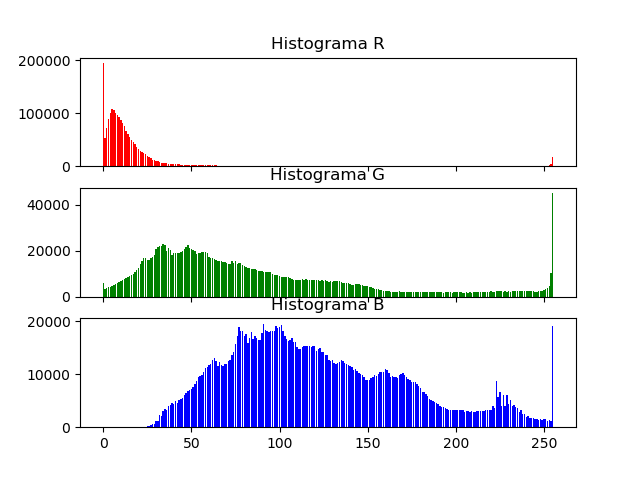
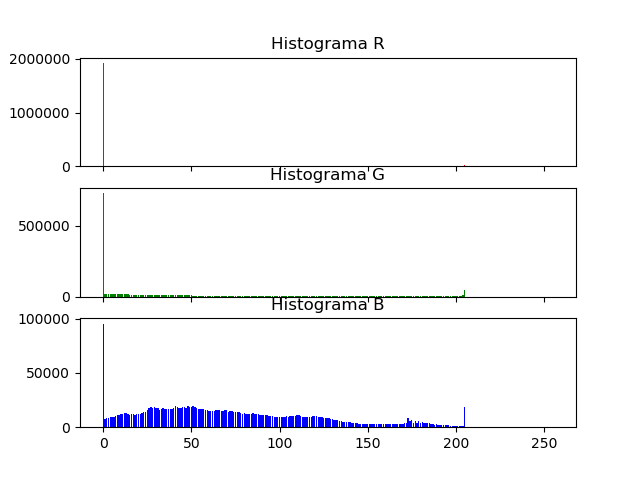
Adds wrappers to filters

diff --git a/src/main.py b/src/main.py
@@ -2,7 +2,7 @@ import sys
 
 from image_processing.filters import clarear, escurecer
 from image_processing.data import histogram
-from util import img2Temp, imgClone
+from util import img2Temp, imgClone, saveImage, readImage
 
 from PySide2 import *
 from PySide2.QtWidgets import *
@@ -61,6 +61,7 @@ class MainWindow(QMainWindow):
         self.escalarClarearText = QLabel("Escalar:")
         self.escalarClarear = QLineEdit()
         self.btnClarear = QPushButton('Clarear')
+        self.btnClarear.clicked.connect(self.clarearWrapper)
         vboxClarear = QVBoxLayout()
         vboxClarear.addWidget(self.escalarClarearText)
         vboxClarear.addWidget(self.escalarClarear)
@@ -72,6 +73,7 @@ class MainWindow(QMainWindow):
         self.escalarEscurecerText = QLabel("Escalar:")
         self.escalarEscurecer = QLineEdit()
         self.btnEscurecer = QPushButton('Escurecer')
+        self.btnEscurecer.clicked.connect(self.escurecerWrapper)
         vboxEscurecer = QVBoxLayout()
         vboxEscurecer.addWidget(self.escalarEscurecerText)
         vboxEscurecer.addWidget(self.escalarEscurecer)
@@ -95,6 +97,18 @@ class MainWindow(QMainWindow):
         widget.setLayout(layout)  # seta o layout a ser usado
         self.setCentralWidget(widget)
 
+    def clarearWrapper(self):
+        escalar = self.escalarClarear.text()
+        img = readImage(FILENAMES['modified'])
+        modified = clarear(img, int(escalar))
+        self.updateModifiedImage(modified)
+
+    def escurecerWrapper(self):
+        escalar = self.escalarEscurecer.text()
+        img = readImage(FILENAMES['modified'])
+        modified = escurecer(img, int(escalar))
+        self.updateModifiedImage(modified)
+
     def openImage(self):
         dialog = QFileDialog()
         dialog.setNameFilter('Images (*.png *.xpm *.jpg)')
@@ -107,16 +121,16 @@ class MainWindow(QMainWindow):
         pixmap = QPixmap(new_filename).scaled(*IMG_SCALE)
         self.imagemOriginal.setPixmap(pixmap)
         self.updateHistogram('hist_original', img)
-        self.resetModifiedImage()
+        self.updateModifiedImage(img)
 
-    def resetModifiedImage(self):
-        _, img = imgClone(self.originalFilename, 'modified.png')
+    def updateModifiedImage(self, img):
+        saveImage(FILENAMES['modified'], img)
         pixmap = QPixmap(FILENAMES['modified']).scaled(*IMG_SCALE)
         self.imagemModificada.setPixmap(pixmap)
         self.updateHistogram('hist_modified', img)
 
-    def updateModifiedImage(self):
-        pass
+    def resetModifiedImage(self):
+       self.updateModifiedImage(readImage(FILENAMES['original']))
 
     def updateHistogram(self, which, img):
         filename = FILENAMES[which]

diff --git a/src/util.py b/src/util.py
@@ -6,15 +6,23 @@ def img2Temp(filename):
     e salva a imagem na pasta temp do projeto
     retorna endereco da imagem e imagem em RGB
     """
-    img = cv2.imread(filename)
+    img = readImage(filename)
     filename = filename.split('/')[-1]
     extension = filename.split('.')[-1]
     new_filename = f'../.temp/original.png'
-    cv2.imwrite(new_filename, img)
-    return new_filename, cv2.cvtColor(img, cv2.COLOR_BGR2RGB)
+    saveImage(new_filename, img)
+    return new_filename, img
 
 
 def imgClone(filename, new_filename):
-    img = cv2.imread(filename)
-    cv2.imwrite(f'../.temp/{new_filename}', img)
-    return new_filename, cv2.cvtColor(img, cv2.COLOR_BGR2RGB)
+    img = readImage(filename)
+    saveImage(f'../.temp/{new_filename}', img)
+    return new_filename, img
+
+
+def saveImage(filename, img):
+    cv2.imwrite(filename, cv2.cvtColor(img, cv2.COLOR_RGB2BGR))
+
+
+def readImage(filename):
+    return cv2.cvtColor(cv2.imread(filename), cv2.COLOR_BGR2RGB)
